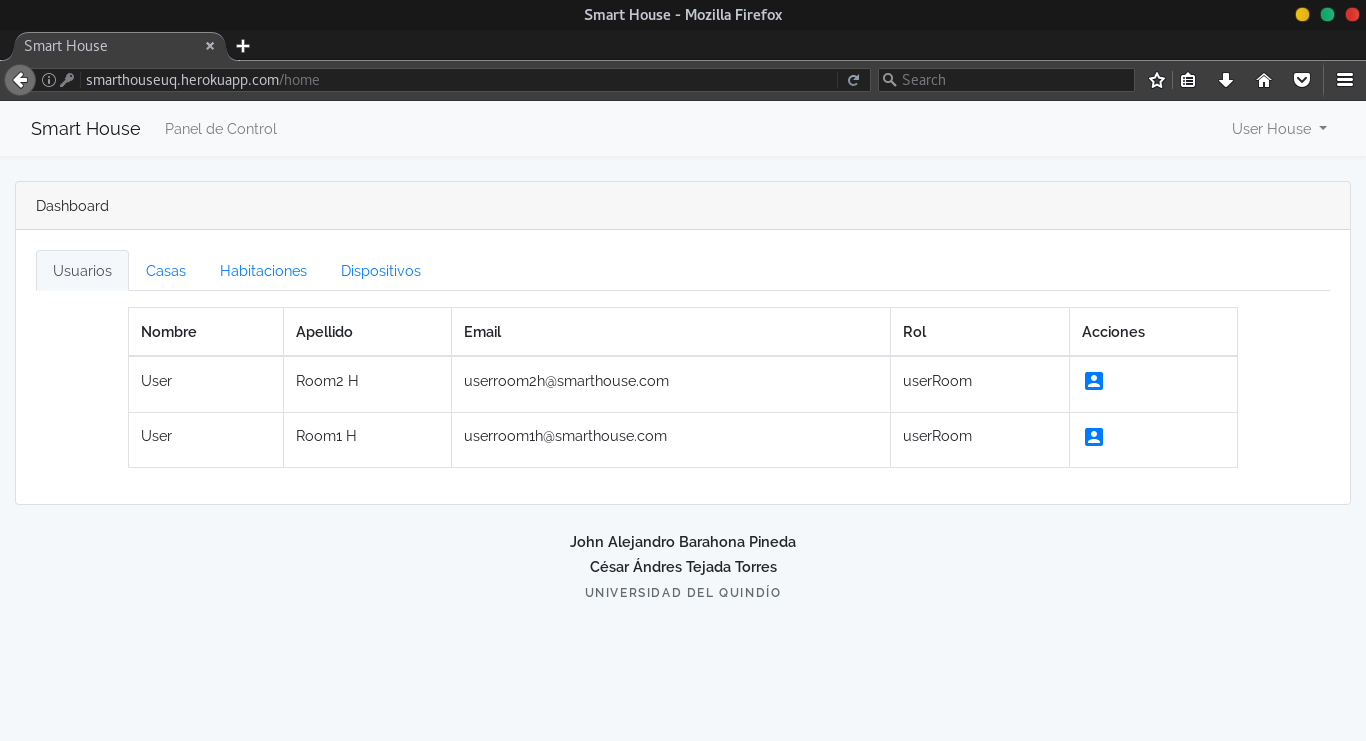
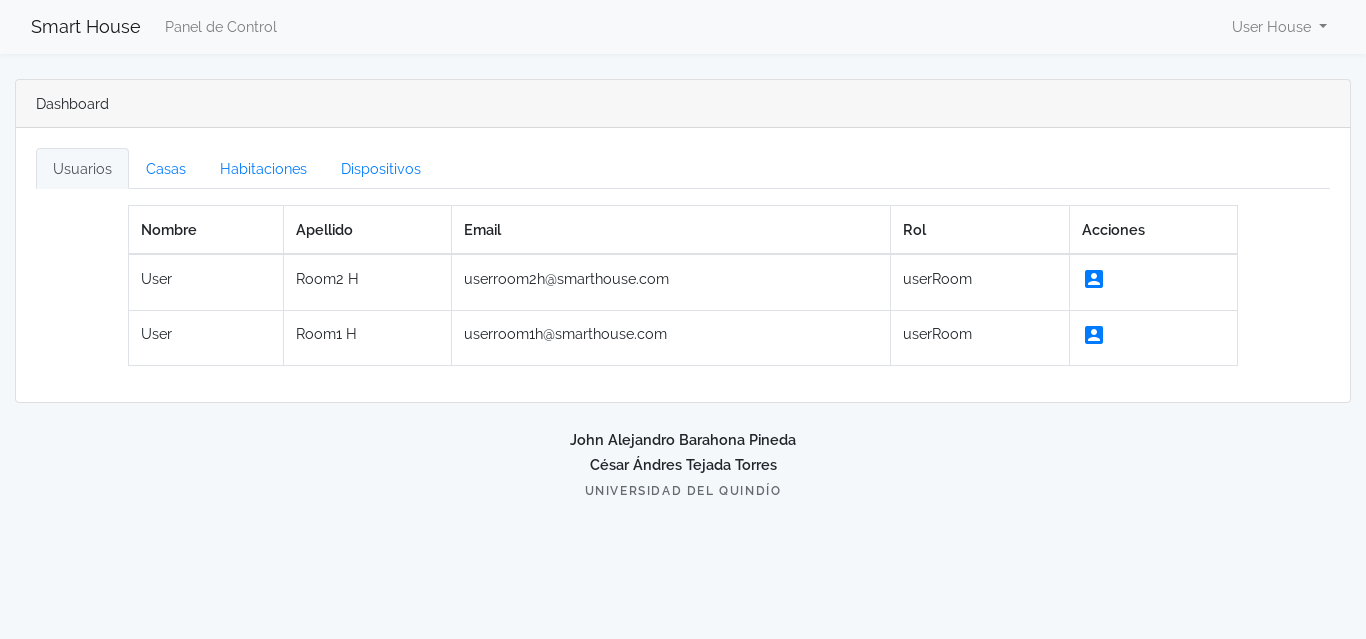
Corrección Imagenes

diff --git a/Resultados_Analisis.tex b/Resultados_Analisis.tex
@@ -64,9 +64,9 @@ Continuando con este usuario y la habitación modelo propuesta al inicio del cap
 	\centering
 	\caption{Vistas de Usuarios [Imagen Propia]}
 	\label{fig:views}
-	\subfigure[Usuario Administrador]{\includegraphics[width=0.9\linewidth]{Imagenes/Admin_view}}
-	\subfigure[Usuario de Casa]{\includegraphics[width=0.45\linewidth]{Imagenes/UserH_view}}
-	\subfigure[Usuario de Habitación]{\includegraphics[width=0.45\linewidth]{Imagenes/UserR_view}}
+	\subfigure[Usuario Administrador]{\includegraphics[width=0.95\linewidth]{Imagenes/Admin_view}}
+	\subfigure[Usuario de Casa]{\includegraphics[width=0.49\linewidth]{Imagenes/UserH_view}}
+	\subfigure[Usuario de Habitación]{\includegraphics[width=0.49\linewidth]{Imagenes/UserR_view}}
 \end{figure}
 
 Además de este panel de control, desde el cuál se realizan las operaciones sobre la aplicación, en la parte privada se encuentra la ruta encargada de la actualización Servidor-Tarjeta, es decir, en esta ruta es donde se intercambia la información. Allí se realiza una petición HTTP tipo GET por parte de la tarjeta, incluyendo en su contenido el id de la habitación en la que está instalada, junto con el token correspondiente a esta, además en la URL se añade un texto tipo JSON en el cual se ubican todas los datos de la lectura actual de los sensores; esta petición la responde el servidor con un texto también tipo JSON que contiene la información pertinente de las cargas o actuadores como se observa la Figura \ref{fig:updateview}. Para dar seguridad a dicha transacción, se utiliza el token mencionado anteriormente, el cual se verifica mediante el id de la habitación comparando el recibido con el almacenado.\\
@@ -75,7 +75,7 @@ Además de este panel de control, desde el cuál se realizan las operaciones sob
 	\centering
 	\caption{Página de intercambio de datos [Imagen Propia]}
 	\label{fig:updateview}
-	\includegraphics[width=0.7\linewidth]{Imagenes/Update_view}
+	\includegraphics[width=1\linewidth]{Imagenes/Update_view}
 \end{figure}
 
 De este modo, el usuario interactuando con la aplicación genera modificaciones en el texto con que responde el servidor a la petición de la tarjeta. Si el usuario desea encender el ventilador, como se observa en la Figura \ref{fig:views}\textbf{(c)} esta presente un botón en la información del dispositivo, el cual con presionarlo lo enciende o apaga, esto es valido para cualquiera de los dos dispositivos, sea el ventilador o el bombillo led.\\
